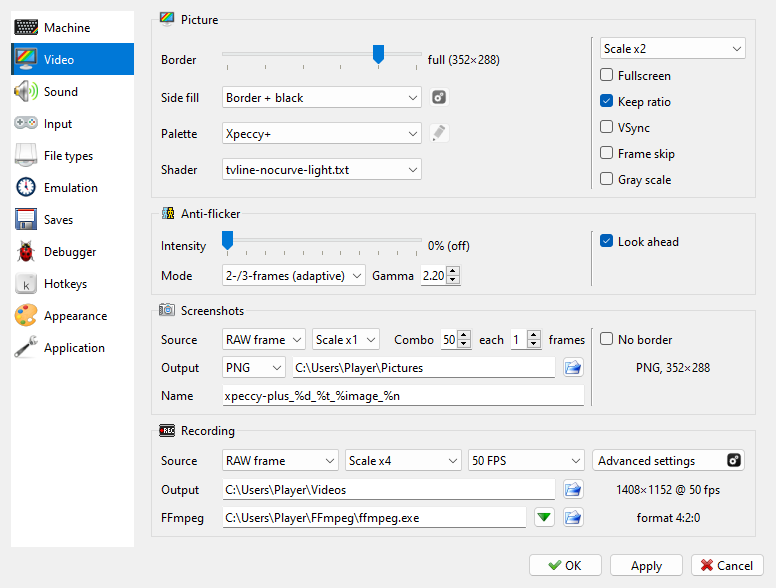
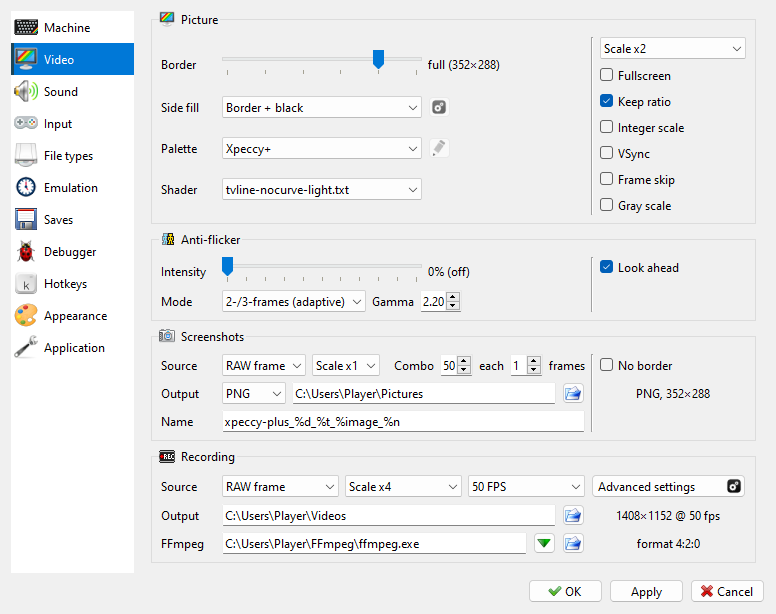
manual: Integer Scale in the View menu, on the Video page and in the hotkeys

diff --git a/docs/manual/view.md b/docs/manual/view.md
@@ -64,12 +64,13 @@ grays out the sizes smaller than the machine shows.
 
 ## Fullscreen
 
-```{index} Fullscreen, Keep Aspect Ratio, aspect ratio
+```{index} Fullscreen, Keep Aspect Ratio, aspect ratio, Integer Scale
 ```
 
 **View > Fullscreen** fills the whole screen with the picture. In fullscreen the
-picture is fitted to the screen rather than kept to whole pixels. How to reach the menu
-from there is in [Fullscreen](main-window.md#fullscreen).
+picture is fitted to the screen rather than kept to whole pixels, unless
+**View > Integer Scale** is ticked. How to reach the menu from there is in
+[Fullscreen](main-window.md#fullscreen).
 
 **View > Keep Aspect Ratio** matters in fullscreen and in a window that is maximized or
 resized:
@@ -77,6 +78,11 @@ resized:
 - ticked - the picture keeps its shape, and the room it leaves - at the sides of a wide
   screen, above and below it in a tall window - is filled as **View > Side Fill** says;
 - not ticked - the picture is stretched to fill the whole screen or window.
+
+**View > Integer Scale**, under it, keeps that picture to whole pixels: every dot is the
+same number of screen pixels, as many as fit with the border the **Border** size sets.
+The room left around the picture is filled as **View > Side Fill** says. It is off by
+default, and grayed out while **Keep Aspect Ratio** is not ticked.
 
 ```{index} Side Fill
 ```

diff --git a/docs/manual/options-video.md b/docs/manual/options-video.md
@@ -9,9 +9,10 @@ The page has four groups:
 
 - **Picture** - **Border**, **Side fill**, **Palette** with the {icon}`edit` button for
   the **Palette Editor**, **Shader**, and on the right the window scale
-  (**Scale x1** to **Scale x6**), **Fullscreen**, **Keep ratio**, **VSync**, **Frame skip**
-  and **Gray scale**. The scale, **Fullscreen**, **Keep ratio**, **Side fill**, the palette
-  and the shader are the same settings as in the **View** menu; see [View menu](view.md).
+  (**Scale x1** to **Scale x6**), **Fullscreen**, **Keep ratio**, **Integer scale**,
+  **VSync**, **Frame skip** and **Gray scale**. The scale, **Fullscreen**, **Keep ratio**,
+  **Integer scale**, **Side fill**, the palette and the shader are the same settings as in
+  the **View** menu; see [View menu](view.md).
   For **VSync** see [VSync](#vsync), for **Frame skip** see [Frame skip](#frame-skip).
 - **Anti-flicker** - see [Anti-flicker](#anti-flicker).
 - **Screenshots** - see [Screenshots](#screenshots).

diff --git a/docs/manual/hotkeys.md b/docs/manual/hotkeys.md
@@ -249,6 +249,7 @@ on the numeric keypad: Alt+Num++ is Alt with the keypad plus.
 | Size x6 | Alt+6 | Alt+6 |
 | Fullscreen | Alt+Return, F11 | Alt+Return |
 | Keep Aspect Ratio | - | Alt+R |
+| Integer Scale | - | - |
 | Anti-flicker | Alt+N | Alt+N |
 | Reload Shader | - | - |
 | Menu Bar | - | - |
